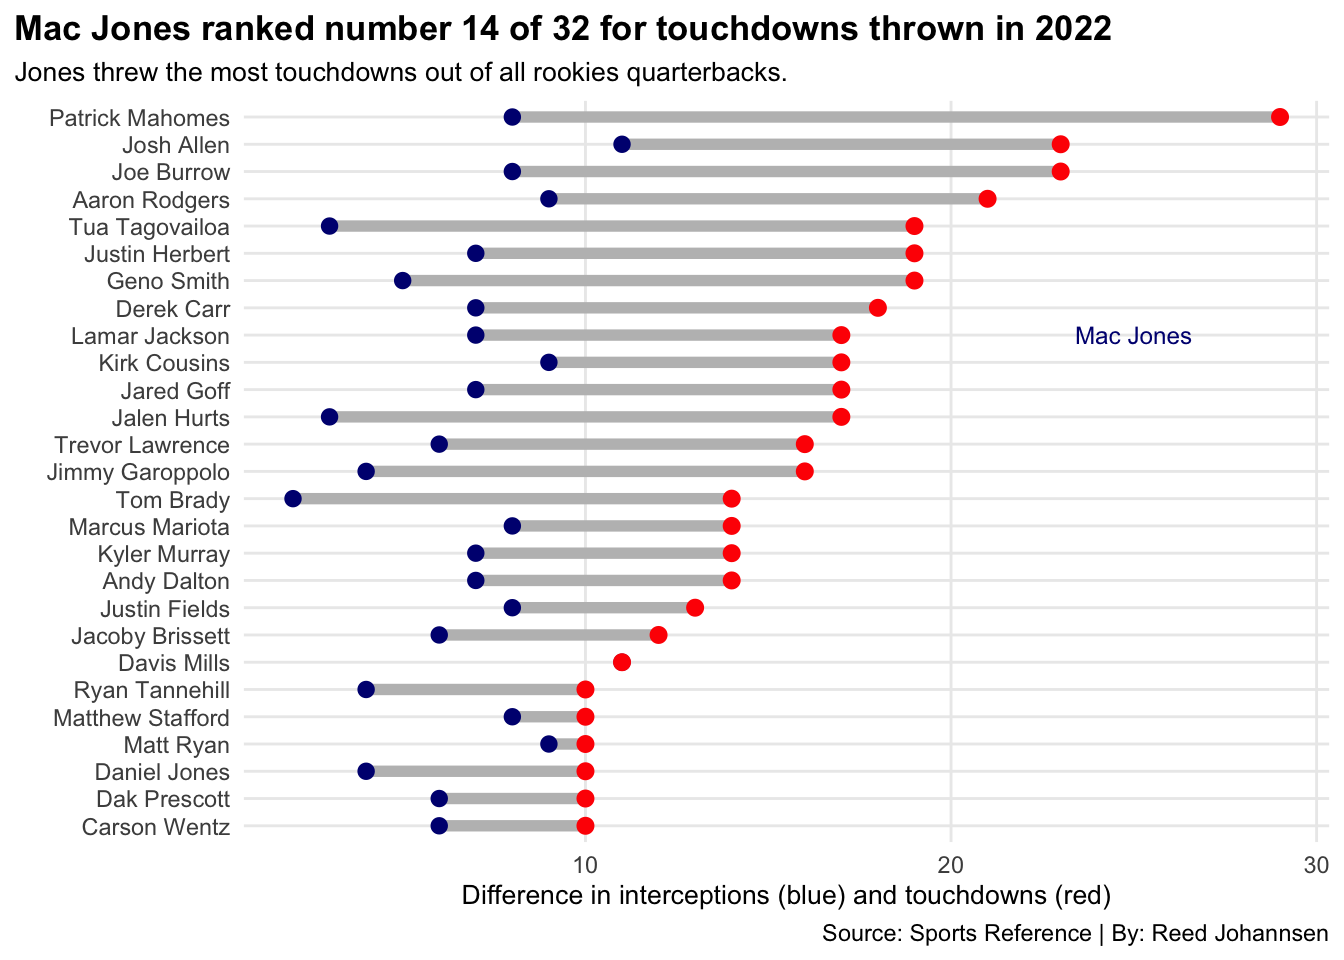
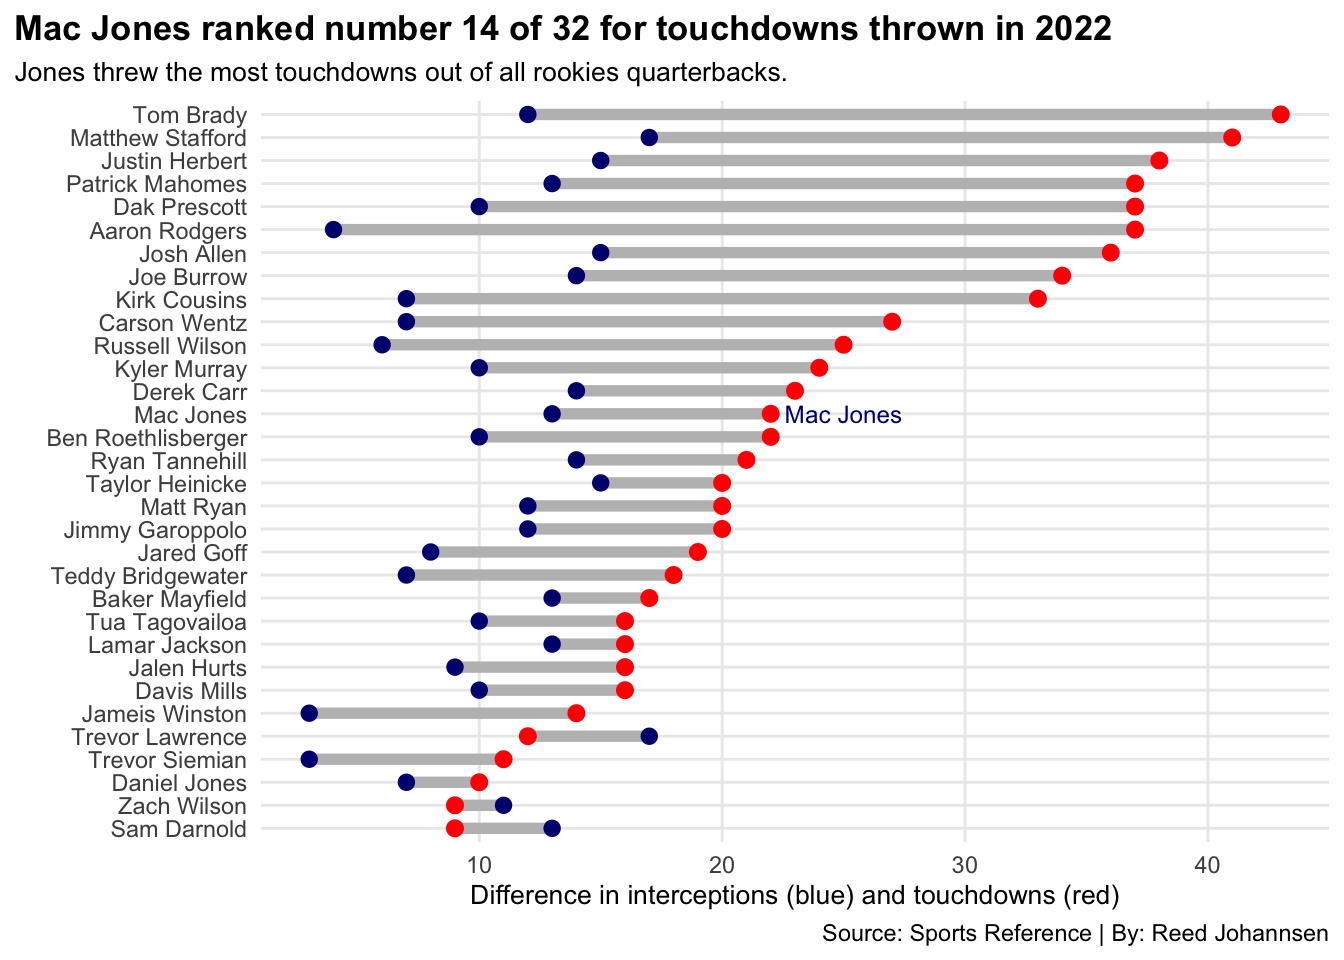
Please work

Changed region(s): [[0.0312, 0.0938, 1.0, 0.9688], [0.9688, 0.875, 1.0, 0.9062]]

diff --git a/posts/test-post/mac-jones/index.html b/posts/test-post/mac-jones/index.html
@@ -228,8 +228,8 @@ code span.wa { color: #60a0b0; font-weight: bold; font-style: italic; } /* Warni
 <span id="cb1-13"><a href="#cb1-13" aria-hidden="true" tabindex="-1"></a>ne22clean <span class="ot">&lt;-</span> ne22 <span class="sc">%&gt;%</span> <span class="fu">separate</span>(Player, <span class="at">into=</span><span class="fu">c</span>(<span class="st">"Players"</span>), <span class="at">sep=</span><span class="st">"</span><span class="sc">\\</span><span class="st">*"</span>)</span>
 <span id="cb1-14"><a href="#cb1-14" aria-hidden="true" tabindex="-1"></a>nfl2022clean <span class="ot">&lt;-</span> nfl2022 <span class="sc">%&gt;%</span> <span class="fu">separate</span>(Player, <span class="at">into=</span><span class="fu">c</span>(<span class="st">"Players"</span>), <span class="at">sep=</span><span class="st">"</span><span class="sc">\\</span><span class="st">*"</span>)</span>
 <span id="cb1-15"><a href="#cb1-15" aria-hidden="true" tabindex="-1"></a>nfl2021clean <span class="ot">&lt;-</span> nfl2021 <span class="sc">%&gt;%</span> <span class="fu">separate</span>(Player, <span class="at">into=</span><span class="fu">c</span>(<span class="st">"Players"</span>), <span class="at">sep=</span><span class="st">"</span><span class="sc">\\</span><span class="st">*"</span>)</span>
-<span id="cb1-16"><a href="#cb1-16" aria-hidden="true" tabindex="-1"></a>jonesclean <span class="ot">&lt;-</span> jones21 <span class="sc">%&gt;%</span> <span class="fu">separate</span>(Player, <span class="at">into=</span><span class="fu">c</span>(<span class="st">"Players"</span>), <span class="at">sep=</span><span class="st">"</span><span class="sc">\\</span><span class="st">*"</span>)</span>
-<span id="cb1-17"><a href="#cb1-17" aria-hidden="true" tabindex="-1"></a>jonesclean <span class="ot">&lt;-</span> jones22 <span class="sc">%&gt;%</span> <span class="fu">separate</span>(Player, <span class="at">into=</span><span class="fu">c</span>(<span class="st">"Players"</span>), <span class="at">sep=</span><span class="st">"</span><span class="sc">\\</span><span class="st">*"</span>)</span>
+<span id="cb1-16"><a href="#cb1-16" aria-hidden="true" tabindex="-1"></a>jonesclean21 <span class="ot">&lt;-</span> jones21 <span class="sc">%&gt;%</span> <span class="fu">separate</span>(Player, <span class="at">into=</span><span class="fu">c</span>(<span class="st">"Players"</span>), <span class="at">sep=</span><span class="st">"</span><span class="sc">\\</span><span class="st">*"</span>)</span>
+<span id="cb1-17"><a href="#cb1-17" aria-hidden="true" tabindex="-1"></a>jonesclean22 <span class="ot">&lt;-</span> jones22 <span class="sc">%&gt;%</span> <span class="fu">separate</span>(Player, <span class="at">into=</span><span class="fu">c</span>(<span class="st">"Players"</span>), <span class="at">sep=</span><span class="st">"</span><span class="sc">\\</span><span class="st">*"</span>)</span>
 <span id="cb1-18"><a href="#cb1-18" aria-hidden="true" tabindex="-1"></a></span>
 <span id="cb1-19"><a href="#cb1-19" aria-hidden="true" tabindex="-1"></a>combined1 <span class="ot">&lt;-</span> <span class="fu">bind_rows</span>(ne21clean, ne22clean) <span class="sc">%&gt;%</span> </span>
 <span id="cb1-20"><a href="#cb1-20" aria-hidden="true" tabindex="-1"></a>  <span class="fu">filter</span>(Yds...<span class="dv">12</span> <span class="sc">&gt;</span> <span class="dv">800</span>) <span class="sc">%&gt;%</span> <span class="fu">filter</span>(Players <span class="sc">!=</span> <span class="st">"Joe Flacco"</span> <span class="sc">&amp;</span>  Players <span class="sc">!=</span> <span class="st">"Mike White"</span> <span class="sc">&amp;</span>  Players <span class="sc">!=</span> <span class="st">"Tyrod Taylor"</span> <span class="sc">&amp;</span>  Players <span class="sc">!=</span> <span class="st">"Cooper Rush"</span> <span class="sc">&amp;</span>  Players <span class="sc">!=</span> <span class="st">"Tyler Huntley"</span> <span class="sc">&amp;</span>  Players <span class="sc">!=</span> <span class="st">"Trevor Siemian"</span> <span class="sc">&amp;</span>  Players <span class="sc">!=</span> <span class="st">"Marcus Mariota"</span> <span class="sc">&amp;</span>  Players <span class="sc">!=</span> <span class="st">"Sam Darnold"</span> <span class="sc">&amp;</span>  Players <span class="sc">!=</span> <span class="st">"Geno Smith"</span> <span class="sc">&amp;</span>  Players <span class="sc">!=</span> <span class="st">"Teddy Bridgewater"</span> <span class="sc">&amp;</span>  Players <span class="sc">!=</span> <span class="st">"Ben Roethlisberger"</span> <span class="sc">&amp;</span> Players <span class="sc">!=</span> <span class="st">"Taysom Hill"</span> <span class="sc">&amp;</span> Players <span class="sc">!=</span> <span class="st">"Kenny Pickett"</span>) </span>
@@ -244,7 +244,7 @@ code span.wa { color: #60a0b0; font-weight: bold; font-style: italic; } /* Warni
 <span id="cb1-29"><a href="#cb1-29" aria-hidden="true" tabindex="-1"></a><span class="fu">arrange</span>(<span class="fu">desc</span>(PercentChange)) <span class="sc">%&gt;%</span> </span>
 <span id="cb1-30"><a href="#cb1-30" aria-hidden="true" tabindex="-1"></a>  <span class="fu">top_n</span>(<span class="dv">32</span>)</span>
 <span id="cb1-31"><a href="#cb1-31" aria-hidden="true" tabindex="-1"></a></span>
-<span id="cb1-32"><a href="#cb1-32" aria-hidden="true" tabindex="-1"></a>diff <span class="ot">&lt;-</span> jonesclean <span class="sc">%&gt;%</span> </span>
+<span id="cb1-32"><a href="#cb1-32" aria-hidden="true" tabindex="-1"></a>diff <span class="ot">&lt;-</span> jonesclean21 <span class="sc">%&gt;%</span> </span>
 <span id="cb1-33"><a href="#cb1-33" aria-hidden="true" tabindex="-1"></a>  <span class="fu">group_by</span>(Players) <span class="sc">%&gt;%</span> </span>
 <span id="cb1-34"><a href="#cb1-34" aria-hidden="true" tabindex="-1"></a>  <span class="fu">summarise</span>(</span>
 <span id="cb1-35"><a href="#cb1-35" aria-hidden="true" tabindex="-1"></a>    <span class="at">TotalTouchdowns =</span> <span class="fu">sum</span>(TD),</span>
@@ -253,7 +253,7 @@ code span.wa { color: #60a0b0; font-weight: bold; font-style: italic; } /* Warni
 <span id="cb1-38"><a href="#cb1-38" aria-hidden="true" tabindex="-1"></a>  <span class="fu">arrange</span>(<span class="fu">desc</span>(TotalTouchdowns)) <span class="sc">%&gt;%</span> </span>
 <span id="cb1-39"><a href="#cb1-39" aria-hidden="true" tabindex="-1"></a>  <span class="fu">filter</span>(TotalTouchdowns <span class="sc">&gt;</span> <span class="dv">8</span>)</span>
 <span id="cb1-40"><a href="#cb1-40" aria-hidden="true" tabindex="-1"></a></span>
-<span id="cb1-41"><a href="#cb1-41" aria-hidden="true" tabindex="-1"></a>diff2 <span class="ot">&lt;-</span> jonesclean <span class="sc">%&gt;%</span> </span>
+<span id="cb1-41"><a href="#cb1-41" aria-hidden="true" tabindex="-1"></a>diff2 <span class="ot">&lt;-</span> jonesclean22 <span class="sc">%&gt;%</span> </span>
 <span id="cb1-42"><a href="#cb1-42" aria-hidden="true" tabindex="-1"></a>  <span class="fu">group_by</span>(Players) <span class="sc">%&gt;%</span> </span>
 <span id="cb1-43"><a href="#cb1-43" aria-hidden="true" tabindex="-1"></a>  <span class="fu">summarise</span>(</span>
 <span id="cb1-44"><a href="#cb1-44" aria-hidden="true" tabindex="-1"></a>    <span class="at">TotalTouchdowns =</span> <span class="fu">sum</span>(TD),</span>
@@ -337,12 +337,12 @@ code span.wa { color: #60a0b0; font-weight: bold; font-style: italic; } /* Warni
 </details>
 <div class="cell-output-display">
 
-<div id="gbickrkypi" style="overflow-x:auto;overflow-y:auto;width:auto;height:auto;">
+<div id="iyqhfuoknc" style="overflow-x:auto;overflow-y:auto;width:auto;height:auto;">
 <style>html {
   font-family: -apple-system, BlinkMacSystemFont, 'Segoe UI', Roboto, Oxygen, Ubuntu, Cantarell, 'Helvetica Neue', 'Fira Sans', 'Droid Sans', Arial, sans-serif;
 }
 
-:where(#gbickrkypi) .gt_table {
+:where(#iyqhfuoknc) .gt_table {
   display: table;
   border-collapse: collapse;
   margin-left: auto;
@@ -367,7 +367,7 @@ code span.wa { color: #60a0b0; font-weight: bold; font-style: italic; } /* Warni
   border-left-color: #D3D3D3;
 }
 
-:where(#gbickrkypi) .gt_heading {
+:where(#iyqhfuoknc) .gt_heading {
   background-color: #FFFFFF;
   text-align: center;
   border-bottom-color: #FFFFFF;
@@ -379,7 +379,7 @@ code span.wa { color: #60a0b0; font-weight: bold; font-style: italic; } /* Warni
   border-right-color: #D3D3D3;
 }
 
-:where(#gbickrkypi) .gt_title {
+:where(#iyqhfuoknc) .gt_title {
   color: #333333;
   font-size: 125%;
   font-weight: initial;
@@ -391,7 +391,7 @@ code span.wa { color: #60a0b0; font-weight: bold; font-style: italic; } /* Warni
   border-bottom-width: 0;
 }
 
-:where(#gbickrkypi) .gt_subtitle {
+:where(#iyqhfuoknc) .gt_subtitle {
   color: #333333;
   font-size: 85%;
   font-weight: initial;
@@ -403,13 +403,13 @@ code span.wa { color: #60a0b0; font-weight: bold; font-style: italic; } /* Warni
   border-top-width: 0;
 }
 
-:where(#gbickrkypi) .gt_bottom_border {
+:where(#iyqhfuoknc) .gt_bottom_border {
   border-bottom-style: none;
   border-bottom-width: 2px;
   border-bottom-color: #D3D3D3;
 }
 
-:where(#gbickrkypi) .gt_col_headings {
+:where(#iyqhfuoknc) .gt_col_headings {
   border-top-style: none;
   border-top-width: 2px;
   border-top-color: #D3D3D3;
@@ -424,7 +424,7 @@ code span.wa { color: #60a0b0; font-weight: bold; font-style: italic; } /* Warni
   border-right-color: #D3D3D3;
 }
 
-:where(#gbickrkypi) .gt_col_heading {
+:where(#iyqhfuoknc) .gt_col_heading {
   color: #333333;
   background-color: #FFFFFF;
   font-size: 100%;
@@ -444,7 +444,7 @@ code span.wa { color: #60a0b0; font-weight: bold; font-style: italic; } /* Warni
   overflow-x: hidden;
 }
 
-:where(#gbickrkypi) .gt_column_spanner_outer {
+:where(#iyqhfuoknc) .gt_column_spanner_outer {
   color: #333333;
   background-color: #FFFFFF;
   font-size: 100%;
@@ -456,15 +456,15 @@ code span.wa { color: #60a0b0; font-weight: bold; font-style: italic; } /* Warni
   padding-right: 4px;
 }
 
-:where(#gbickrkypi) .gt_column_spanner_outer:first-child {
+:where(#iyqhfuoknc) .gt_column_spanner_outer:first-child {
   padding-left: 0;
 }
 
-:where(#gbickrkypi) .gt_column_spanner_outer:last-child {
+:where(#iyqhfuoknc) .gt_column_spanner_outer:last-child {
   padding-right: 0;
 }
 
-:where(#gbickrkypi) .gt_column_spanner {
+:where(#iyqhfuoknc) .gt_column_spanner {
   border-bottom-style: none;
   border-bottom-width: 2px;
   border-bottom-color: #D3D3D3;
@@ -476,7 +476,7 @@ code span.wa { color: #60a0b0; font-weight: bold; font-style: italic; } /* Warni
   width: 100%;
 }
 
-:where(#gbickrkypi) .gt_group_heading {
+:where(#iyqhfuoknc) .gt_group_heading {
   padding-top: 8px;
   padding-bottom: 8px;
   padding-left: 5px;
@@ -501,7 +501,7 @@ code span.wa { color: #60a0b0; font-weight: bold; font-style: italic; } /* Warni
   vertical-align: middle;
 }
 
-:where(#gbickrkypi) .gt_empty_group_heading {
+:where(#iyqhfuoknc) .gt_empty_group_heading {
   padding: 0.5px;
   color: #333333;
   background-color: #FFFFFF;
@@ -516,15 +516,15 @@ code span.wa { color: #60a0b0; font-weight: bold; font-style: italic; } /* Warni
   vertical-align: middle;
 }
 
-:where(#gbickrkypi) .gt_from_md > :first-child {
+:where(#iyqhfuoknc) .gt_from_md > :first-child {
   margin-top: 0;
 }
 
-:where(#gbickrkypi) .gt_from_md > :last-child {
+:where(#iyqhfuoknc) .gt_from_md > :last-child {
   margin-bottom: 0;
 }
 
-:where(#gbickrkypi) .gt_row {
+:where(#iyqhfuoknc) .gt_row {
   padding-top: 8px;
   padding-bottom: 8px;
   padding-left: 5px;
@@ -543,7 +543,7 @@ code span.wa { color: #60a0b0; font-weight: bold; font-style: italic; } /* Warni
   overflow-x: hidden;
 }
 
-:where(#gbickrkypi) .gt_stub {
+:where(#iyqhfuoknc) .gt_stub {
   color: #333333;
   background-color: #FFFFFF;
   font-size: 100%;
@@ -556,7 +556,7 @@ code span.wa { color: #60a0b0; font-weight: bold; font-style: italic; } /* Warni
   padding-right: 5px;
 }
 
-:where(#gbickrkypi) .gt_stub_row_group {
+:where(#iyqhfuoknc) .gt_stub_row_group {
   color: #333333;
   background-color: #FFFFFF;
   font-size: 100%;
@@ -570,11 +570,11 @@ code span.wa { color: #60a0b0; font-weight: bold; font-style: italic; } /* Warni
   vertical-align: top;
 }
 
-:where(#gbickrkypi) .gt_row_group_first td {
+:where(#iyqhfuoknc) .gt_row_group_first td {
   border-top-width: 2px;
 }
 
-:where(#gbickrkypi) .gt_summary_row {
+:where(#iyqhfuoknc) .gt_summary_row {
   color: #333333;
   background-color: #FFFFFF;
   text-transform: inherit;
@@ -584,16 +584,16 @@ code span.wa { color: #60a0b0; font-weight: bold; font-style: italic; } /* Warni
   padding-right: 5px;
 }
 
-:where(#gbickrkypi) .gt_first_summary_row {
+:where(#iyqhfuoknc) .gt_first_summary_row {
   border-top-style: none;
   border-top-color: #D3D3D3;
 }
 
-:where(#gbickrkypi) .gt_first_summary_row.thick {
+:where(#iyqhfuoknc) .gt_first_summary_row.thick {
   border-top-width: 2px;
 }
 
-:where(#gbickrkypi) .gt_last_summary_row {
+:where(#iyqhfuoknc) .gt_last_summary_row {
   padding-top: 8px;
   padding-bottom: 8px;
   padding-left: 5px;
@@ -603,7 +603,7 @@ code span.wa { color: #60a0b0; font-weight: bold; font-style: italic; } /* Warni
   border-bottom-color: #D3D3D3;
 }
 
-:where(#gbickrkypi) .gt_grand_summary_row {
+:where(#iyqhfuoknc) .gt_grand_summary_row {
   color: #333333;
   background-color: #FFFFFF;
   text-transform: inherit;
@@ -613,7 +613,7 @@ code span.wa { color: #60a0b0; font-weight: bold; font-style: italic; } /* Warni
   padding-right: 5px;
 }
 
-:where(#gbickrkypi) .gt_first_grand_summary_row {
+:where(#iyqhfuoknc) .gt_first_grand_summary_row {
   padding-top: 8px;
   padding-bottom: 8px;
   padding-left: 5px;
@@ -623,11 +623,11 @@ code span.wa { color: #60a0b0; font-weight: bold; font-style: italic; } /* Warni
   border-top-color: #D3D3D3;
 }
 
-:where(#gbickrkypi) .gt_striped {
+:where(#iyqhfuoknc) .gt_striped {
   background-color: rgba(128, 128, 128, 0.05);
 }
 
-:where(#gbickrkypi) .gt_table_body {
+:where(#iyqhfuoknc) .gt_table_body {
   border-top-style: none;
   border-top-width: 2px;
   border-top-color: #D3D3D3;
@@ -636,7 +636,7 @@ code span.wa { color: #60a0b0; font-weight: bold; font-style: italic; } /* Warni
   border-bottom-color: #D3D3D3;
 }
 
-:where(#gbickrkypi) .gt_footnotes {
+:where(#iyqhfuoknc) .gt_footnotes {
   color: #333333;
   background-color: #FFFFFF;
   border-bottom-style: none;
@@ -650,7 +650,7 @@ code span.wa { color: #60a0b0; font-weight: bold; font-style: italic; } /* Warni
   border-right-color: #D3D3D3;
 }
 
-:where(#gbickrkypi) .gt_footnote {
+:where(#iyqhfuoknc) .gt_footnote {
   margin: 0px;
   font-size: 90%;
   padding-left: 4px;
@@ -659,7 +659,7 @@ code span.wa { color: #60a0b0; font-weight: bold; font-style: italic; } /* Warni
   padding-right: 5px;
 }
 
-:where(#gbickrkypi) .gt_sourcenotes {
+:where(#iyqhfuoknc) .gt_sourcenotes {
   color: #333333;
   background-color: #FFFFFF;
   border-bottom-style: none;
@@ -673,7 +673,7 @@ code span.wa { color: #60a0b0; font-weight: bold; font-style: italic; } /* Warni
   border-right-color: #D3D3D3;
 }
 
-:where(#gbickrkypi) .gt_sourcenote {
+:where(#iyqhfuoknc) .gt_sourcenote {
   font-size: 90%;
   padding-top: 4px;
   padding-bottom: 4px;
@@ -681,64 +681,64 @@ code span.wa { color: #60a0b0; font-weight: bold; font-style: italic; } /* Warni
   padding-right: 5px;
 }
 
-:where(#gbickrkypi) .gt_left {
+:where(#iyqhfuoknc) .gt_left {
   text-align: left;
 }
 
-:where(#gbickrkypi) .gt_center {
+:where(#iyqhfuoknc) .gt_center {
   text-align: center;
 }
 
-:where(#gbickrkypi) .gt_right {
+:where(#iyqhfuoknc) .gt_right {
   text-align: right;
   font-variant-numeric: tabular-nums;
 }
 
-:where(#gbickrkypi) .gt_font_normal {
+:where(#iyqhfuoknc) .gt_font_normal {
   font-weight: normal;
 }
 
-:where(#gbickrkypi) .gt_font_bold {
+:where(#iyqhfuoknc) .gt_font_bold {
   font-weight: bold;
 }
 
-:where(#gbickrkypi) .gt_font_italic {
+:where(#iyqhfuoknc) .gt_font_italic {
   font-style: italic;
 }
 
-:where(#gbickrkypi) .gt_super {
+:where(#iyqhfuoknc) .gt_super {
   font-size: 65%;
 }
 
-:where(#gbickrkypi) .gt_footnote_marks {
+:where(#iyqhfuoknc) .gt_footnote_marks {
   font-style: italic;
   font-weight: normal;
   font-size: 75%;
   vertical-align: 0.4em;
 }
 
-:where(#gbickrkypi) .gt_asterisk {
+:where(#iyqhfuoknc) .gt_asterisk {
   font-size: 100%;
   vertical-align: 0;
 }
 
-:where(#gbickrkypi) .gt_indent_1 {
+:where(#iyqhfuoknc) .gt_indent_1 {
   text-indent: 5px;
 }
 
-:where(#gbickrkypi) .gt_indent_2 {
+:where(#iyqhfuoknc) .gt_indent_2 {
   text-indent: 10px;
 }
 
-:where(#gbickrkypi) .gt_indent_3 {
+:where(#iyqhfuoknc) .gt_indent_3 {
   text-indent: 15px;
 }
 
-:where(#gbickrkypi) .gt_indent_4 {
+:where(#iyqhfuoknc) .gt_indent_4 {
   text-indent: 20px;
 }
 
-:where(#gbickrkypi) .gt_indent_5 {
+:where(#iyqhfuoknc) .gt_indent_5 {
   text-indent: 25px;
 }
 </style>
